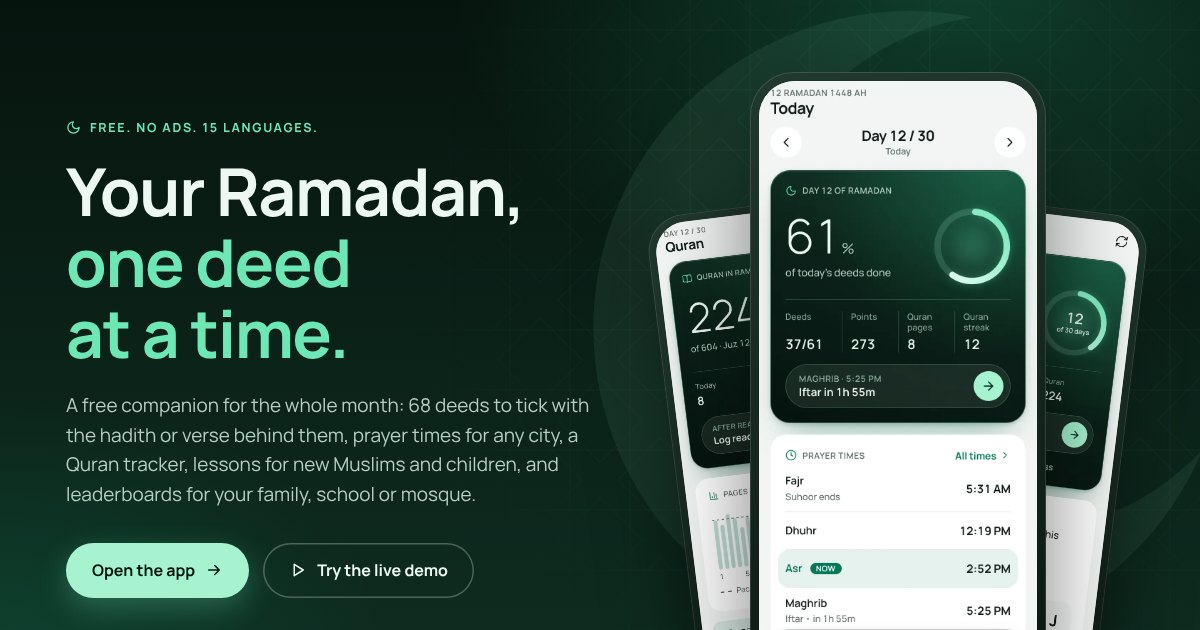
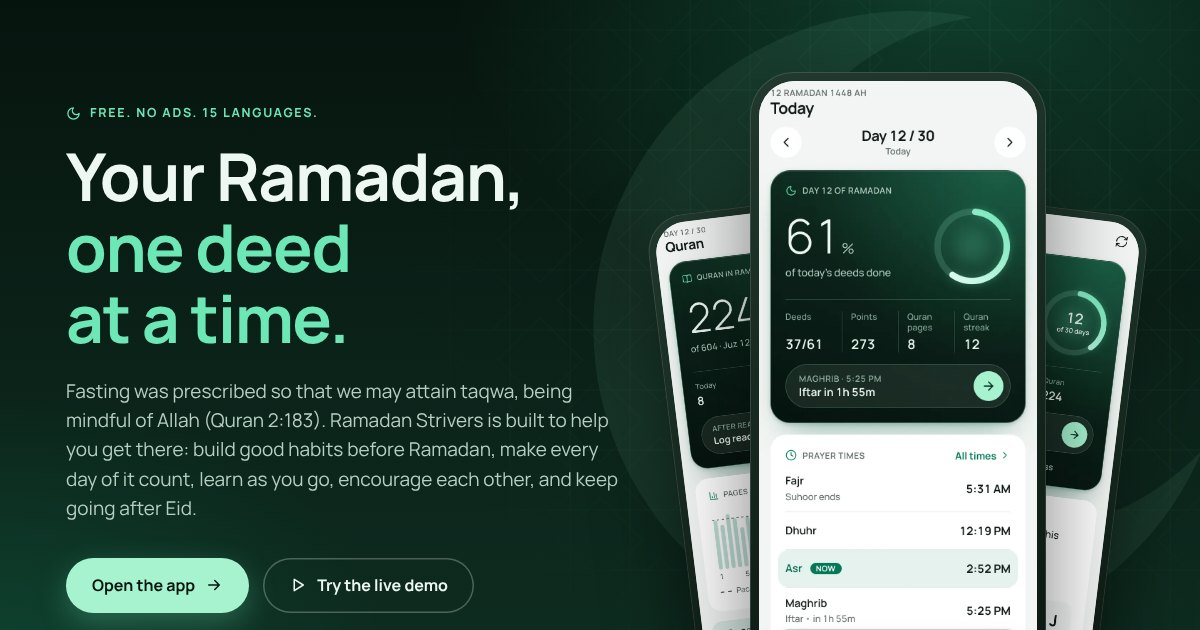
Product page: the opening says what the app is for
The first paragraph called the app a companion and listed features. It now gives the
purpose, in the owner's terms and the app's own wording: fasting was prescribed so that
we may attain taqwa (Quran 2:183), and the app is built to help with that before, during
and after Ramadan: build good habits, make every day count, learn, encourage each other,
keep going after Eid (the 30-day preparation, the daily deeds and the year-round mode
are what stand behind those words). A shorter form of the same sentence shows on phones.
The browser title, the description and the words a shared link carries say the same, and
the social picture is retaken.

Claude-Session: https://claude.ai/code/session_01NK5Fw2fU79LqByGdNvRg5Q

diff --git a/product/index.html b/product/index.html
@@ -3,14 +3,14 @@
 <head>
 <meta charset="utf-8">
 <meta name="viewport" content="width=device-width,initial-scale=1,viewport-fit=cover">
-<title>Ramadan Strivers: the free Ramadan companion for you, your family, your school and your mosque</title>
-<meta name="description" content="A free Ramadan app in 15 languages: a daily checklist of deeds with their sources, prayer times for any city, a Quran tracker, a 30-day preparation programme, lessons for new Muslims and children, and leaderboards for schools, mosques and families. No ads. No account needed.">
+<title>Ramadan Strivers: the free Ramadan app for growing in taqwa, with your family, school and mosque</title>
+<meta name="description" content="A free Ramadan app built to help you grow in taqwa: build good habits before Ramadan, make every day of it count, and keep going after Eid. A daily checklist of deeds with their sources, prayer times for any city, a Quran tracker, lessons, and leaderboards for families, schools and mosques. In 15 languages. No ads. No account needed.">
 <meta name="theme-color" content="#06140E">
 <link rel="canonical" href="https://about.ramadanstrivers.com/product">
 <meta property="og:type" content="website">
 <meta property="og:site_name" content="Ramadan Strivers">
 <meta property="og:title" content="Ramadan Strivers: your Ramadan, one deed at a time">
-<meta property="og:description" content="Free, in 15 languages, with no ads. A daily checklist with sources, prayer times, a Quran tracker, lessons, and leaderboards for schools, mosques and families.">
+<meta property="og:description" content="A free app to help you grow in taqwa: build good habits before Ramadan, make every day count, encourage each other, and keep going after Eid. In 15 languages, with no ads.">
 <meta property="og:url" content="https://about.ramadanstrivers.com/product">
 <meta property="og:image" content="https://www.ramadanstrivers.com/product/img/og.jpg">
 <meta property="og:image:width" content="1200">
@@ -22,7 +22,7 @@
 <link rel="preconnect" href="https://fonts.gstatic.com" crossorigin>
 <link rel="stylesheet" href="https://fonts.googleapis.com/css2?family=Manrope:wght@300..800&amp;display=swap">
 <script>document.documentElement.className = 'js' + (/[?&]og=1/.test(location.search) ? ' og' : '');</script>
-<script type="application/ld+json">{"@context":"https://schema.org","@type":"SoftwareApplication","name":"Ramadan Strivers","applicationCategory":"LifestyleApplication","operatingSystem":"Web, iOS, Android","url":"https://www.ramadanstrivers.com/","offers":{"@type":"Offer","price":"0","priceCurrency":"USD"},"inLanguage":["en","ar","ur","bn","id","ms","tr","fa","hi","fr","es","pt","ru","sw","zh"],"description":"A free Ramadan companion: a daily checklist of deeds with sources, prayer times, a Quran tracker, a 30-day preparation programme, lessons for new Muslims and children, and leaderboards for schools, mosques and families."}</script>
+<script type="application/ld+json">{"@context":"https://schema.org","@type":"SoftwareApplication","name":"Ramadan Strivers","applicationCategory":"LifestyleApplication","operatingSystem":"Web, iOS, Android","url":"https://www.ramadanstrivers.com/","offers":{"@type":"Offer","price":"0","priceCurrency":"USD"},"inLanguage":["en","ar","ur","bn","id","ms","tr","fa","hi","fr","es","pt","ru","sw","zh"],"description":"A free Ramadan app built to help you grow in taqwa: a daily checklist of deeds with sources, prayer times, a Quran tracker, a 30-day preparation programme, lessons for new Muslims and children, and leaderboards for schools, mosques and families."}</script>
 <script type="application/ld+json" id="ld-faq">{"@context":"https://schema.org","@type":"FAQPage","mainEntity":[{"@type":"Question","name":"Is it really free?","acceptedAnswer":{"@type":"Answer","text":"Yes. There are no ads, no subscriptions and nothing to buy, for individuals and for organisations of any size."}},{"@type":"Question","name":"Can I try it before I start?","acceptedAnswer":{"@type":"Answer","text":"Yes. The live demo on this page is the app itself on a sample day of Ramadan, with a class competition already running. What you do there stays in that tab and is gone when you close it, and it never touches your own data."}},{"@type":"Question","name":"Do I need to create an account?","acceptedAnswer":{"@type":"Answer","text":"No. Everything works without one and your data stays on your device. An account is optional: create one if you want a backup and to sync between your phone, tablet and computer. You can delete it and its cloud data at any time. Only people who organise a competition need an account, so that nobody else can manage it."}},{"@type":"Question","name":"Does it work without the internet?","acceptedAnswer":{"@type":"Answer","text":"Yes. Once you have opened it, the app works offline, including the checklist, the Quran tracker, the lessons and prayer times for major cities. Leaderboards, sync between devices and the worldwide city search need a connection."}},{"@type":"Question","name":"How does it know when Ramadan starts?","acceptedAnswer":{"@type":"Answer","text":"It follows the Umm al-Qura Hijri calendar and shows the start and end of Ramadan as estimates. The real dates depend on moon sighting or the calendar your community follows, so the app reminds you to check with your local mosque, and you can shift the date by a day in settings."}},{"@type":"Question","name":"Where does the content come from?","acceptedAnswer":{"@type":"Answer","text":"Deeds, lessons and quiz answers cite verses of the Quran and hadith, with references you can follow to read the source yourself, and the deeds show how each hadith is graded. Translations of meanings are there to help you understand. The app gives general guidance, not rulings. Schools of thought differ on some details, and it says so. For your own situation, ask a qualified imam or your local mosque."}},{"@type":"Question","name":"Can children use it safely?","acceptedAnswer":{"@type":"Answer","text":"Yes. Kids mode is made for ages 8 to 12. A child never needs an email, an account or a phone number, usage statistics are always off in kids mode, and a parent can confirm each day with a family PIN. In a school competition the organiser can switch on protections for participants under 13 and print consent slips for parents."}},{"@type":"Question","name":"What does a competition see about me?","acceptedAnswer":{"@type":"Answer","text":"Your display name, your class or team if you give one, and your totals: points, days logged, average completion and Quran pages. The organiser can also see your total for each day to keep things fair. Nobody sees which deeds you ticked, your journal or anything else."}},{"@type":"Question","name":"How does a school or mosque get started?","acceptedAnswer":{"@type":"Answer","text":"Open the app, go to Compete and choose Organise. Create a free account, name your organisation, add prizes if you have them, and share the six-letter code or print the QR poster. Participants join with the code and a display name. It takes about a minute, and you can add helpers, goals and sign-up lists afterwards."}},{"@type":"Question","name":"I am not fasting or praying at the moment. Is it still for me?","acceptedAnswer":{"@type":"Answer","text":"Yes. Mark a day as not fasting with the reason, whether illness, travel or your period, and the fast is kept in a make-up planner. Sisters' mode sets prayer and fasting deeds aside so your percentage reflects the worship that applies to you: dhikr, dua, listening to the Quran, charity and character."}},{"@type":"Question","name":"Can several people share one phone?","acceptedAnswer":{"@type":"Answer","text":"Yes. Family profiles let each person keep their own checklist, Quran log and badges on the same device, and a child's profile opens straight into kids mode."}},{"@type":"Question","name":"Is it only useful in Ramadan?","acceptedAnswer":{"@type":"Answer","text":"No. In Sha'ban it becomes Ramadan Prep, with a countdown to the first fast. For the rest of the year it tracks the Sunnah fasts on Mondays and Thursdays, the white days, the six days of Shawwal and the first ten days of Dhul Hijjah, and the Quran tracker and lessons work all year."}},{"@type":"Question","name":"Which languages is it in?","acceptedAnswer":{"@type":"Answer","text":"English, Arabic, Urdu, Bengali, Indonesian, Malay, Turkish, Persian, Hindi, French, Spanish, Portuguese, Russian, Swahili and Chinese. Arabic, Urdu and Persian are laid out right to left. You can change the language at any time in settings."}}]}</script>
 <style>
 :root {
@@ -101,6 +101,7 @@ svg.i { width: 1em; height: 1em; fill: none; stroke: currentColor; stroke-width:
 .hero h1 { font-size: clamp(40px, 6.2vw, 80px); font-weight: 700; margin-top: 18px; }
 .hero h1 em { font-style: normal; color: var(--mint-2); }
 .hero .lead { color: var(--on-dark-2); margin-top: 22px; }
+.hero .less { display: none; }
 .cta-row { display: flex; flex-wrap: wrap; gap: 14px; margin-top: 34px; }
 .hero-proof { margin-top: 28px; color: var(--on-dark-3); font-size: 14.5px; font-weight: 600; }
 .hero-proof b { color: var(--on-dark); font-variant-numeric: tabular-nums; }
@@ -428,7 +429,7 @@ footer { padding: 36px 0 60px; color: var(--ink-3); font-size: 14px; }
   .hero-in { padding-block: 26px 0; gap: 26px; text-align: start; }
   .hero::before { opacity: .13; background-size: 96px 96px; }
   .hero-when { justify-content: flex-start; font-size: 11.5px; } .hero h1 { font-size: clamp(38px, 12.4vw, 54px); margin-top: 14px; } .hero h1 .hb { display: inline; }
-  .hero .lead { margin: 14px 0 0; font-size: 16.5px; } .hero .more, .hero-proof { display: none; }
+  .hero .lead { margin: 14px 0 0; font-size: 16.5px; } .hero .more, .hero-proof { display: none; } .hero .less { display: inline; }
   .cta-row { margin-top: 22px; gap: 10px; flex-wrap: nowrap; justify-content: flex-start; } .cta-row .btn { padding: 14px 18px; font-size: 15.5px; white-space: nowrap; } .cta-row .btn-mint { flex: 1 1 auto; justify-content: center; }
   .phones { height: 452px; } .phones .ph { width: 236px; border-radius: 37px; padding: 7px; } .phones .ph .ph-screen { border-radius: 31px; } .phones .p1 { margin-left: -118px; top: 0; }
   .phones .p2 { left: -72px; top: 84px; } .phones .p3 { right: -72px; top: 84px; }
@@ -612,7 +613,7 @@ footer { padding: 36px 0 60px; color: var(--ink-3); font-size: 14px; }
     <div class="hero-copy">
       <p class="hero-when"><svg class="i"><use href="#i-moon"/></svg><span id="hero-when">Free. No ads. <span data-n="languages">15</span> languages.</span></p>
       <h1>Your Ramadan,<br><em>one deed<br class="hb"> at a time.</em></h1>
-      <p class="lead">A free companion for the whole month: <span data-n="deeds">68</span> deeds to tick<span class="more"> with the hadith or verse behind them</span>, prayer times<span class="more"> for any city</span>, a Quran tracker, lessons<span class="more"> for new Muslims and children,</span> and leaderboards<span class="more"> for your family, school or mosque</span>.</p>
+      <p class="lead"><span class="more">Fasting was prescribed so that we may attain taqwa, being mindful of Allah</span><span class="less">We fast to attain taqwa</span> (Quran 2:183). <span class="more">Ramadan Strivers is built to help you get there: build</span><span class="less">Build</span> good habits before Ramadan, make every day <span class="more">of it </span>count, learn as you go, encourage each other, and keep going after Eid.</p>
       <div class="cta-row">
         <a class="btn btn-mint" href="https://www.ramadanstrivers.com/">Open the app <svg class="i"><use href="#i-arrow"/></svg></a>
         <a class="btn btn-ghost" href="#demo"><svg class="i"><use href="#i-play"/></svg><span>Try the <span class="more">live </span>demo</span></a>
@@ -1413,7 +1414,7 @@ footer { padding: 36px 0 60px; color: var(--ink-3); font-size: 14px; }
       <h2>Start with the people closest to you.</h2>
       <p>Open the app, tick your first deed, and send the link to your family group. It takes less than a minute.</p>
       <div class="cta-row"><a class="btn btn-mint" href="https://www.ramadanstrivers.com/">Open Ramadan Strivers <svg class="i"><use href="#i-arrow"/></svg></a><a class="btn btn-ghost" href="https://www.ramadanstrivers.com/#/compete">Start a competition</a></div>
-      <div class="pass"><span>Pass it on</span><button type="button" data-share="native" hidden><svg class="i"><use href="#i-share"/></svg>Share</button><a data-share="whatsapp" href="https://wa.me/?text=Ramadan%20Strivers%3A%20a%20free%20Ramadan%20companion.%20https%3A%2F%2Fwww.ramadanstrivers.com%2Fproduct" target="_blank" rel="noopener"><svg class="i"><use href="#i-chat"/></svg>WhatsApp</a><a data-share="mail" href="mailto:?subject=Ramadan%20Strivers&amp;body=https%3A%2F%2Fwww.ramadanstrivers.com%2Fproduct"><svg class="i"><use href="#i-mail"/></svg>Email</a><button type="button" data-share="copy"><svg class="i"><use href="#i-copy"/></svg><span>Copy the link</span></button></div>
+      <div class="pass"><span>Pass it on</span><button type="button" data-share="native" hidden><svg class="i"><use href="#i-share"/></svg>Share</button><a data-share="whatsapp" href="https://wa.me/?text=Ramadan%20Strivers%3A%20a%20free%20app%20to%20help%20you%20grow%20in%20taqwa%20this%20Ramadan.%20https%3A%2F%2Fwww.ramadanstrivers.com%2Fproduct" target="_blank" rel="noopener"><svg class="i"><use href="#i-chat"/></svg>WhatsApp</a><a data-share="mail" href="mailto:?subject=Ramadan%20Strivers&amp;body=https%3A%2F%2Fwww.ramadanstrivers.com%2Fproduct"><svg class="i"><use href="#i-mail"/></svg>Email</a><button type="button" data-share="copy"><svg class="i"><use href="#i-copy"/></svg><span>Copy the link</span></button></div>
     </div>
   </div>
 </section>
@@ -1669,7 +1670,7 @@ footer { padding: 36px 0 60px; color: var(--ink-3); font-size: 14px; }
   /* pass it on: share, WhatsApp, email, copy the link */
   (function () {
     var PAGE = location.origin + location.pathname.replace(/index\.html$/, '');
-    var TEXT = 'Ramadan Strivers: a free Ramadan companion with a daily checklist, prayer times, a Quran tracker and leaderboards for families, schools and mosques.';
+    var TEXT = 'Ramadan Strivers: a free app to help you grow in taqwa this Ramadan, with a daily checklist of deeds, prayer times, a Quran tracker and leaderboards for families, schools and mosques.';
     $$('[data-share]').forEach(function (b) {
       var kind = b.getAttribute('data-share');
       if (kind === 'native') { if (!navigator.share) return; b.hidden = false; b.addEventListener('click', function () { navigator.share({ title: 'Ramadan Strivers', text: TEXT, url: PAGE }).catch(function () {}); }); }
